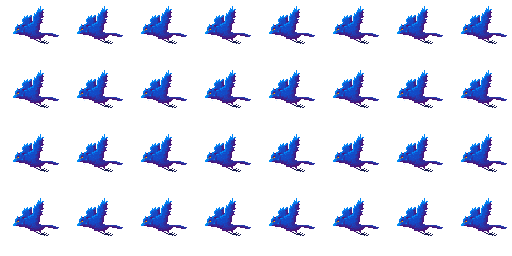
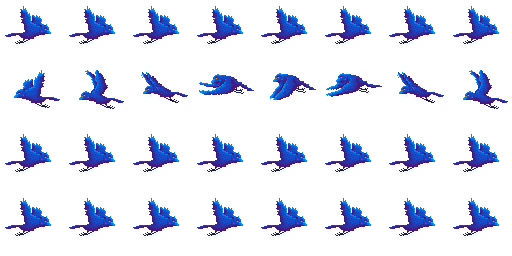
thunderbird animation

diff --git a/src/KernelPanic/SpriteManager.cs b/src/KernelPanic/SpriteManager.cs
@@ -598,7 +598,7 @@ namespace KernelPanic
             new AnimatedSprite(Lookup(Image.Nokia), TimeSpan.FromMilliseconds(300));
         
         internal AnimatedSprite CreateThunderbird() =>
-            new AnimatedSprite(Lookup(Image.Thunderbird), TimeSpan.FromMilliseconds(300));
+            new AnimatedSprite(Lookup(Image.Thunderbird), TimeSpan.FromMilliseconds(150));
         
         internal AnimatedSprite CreateVirus() =>
             new AnimatedSprite(Lookup(Image.Virus), TimeSpan.FromMilliseconds(300));
